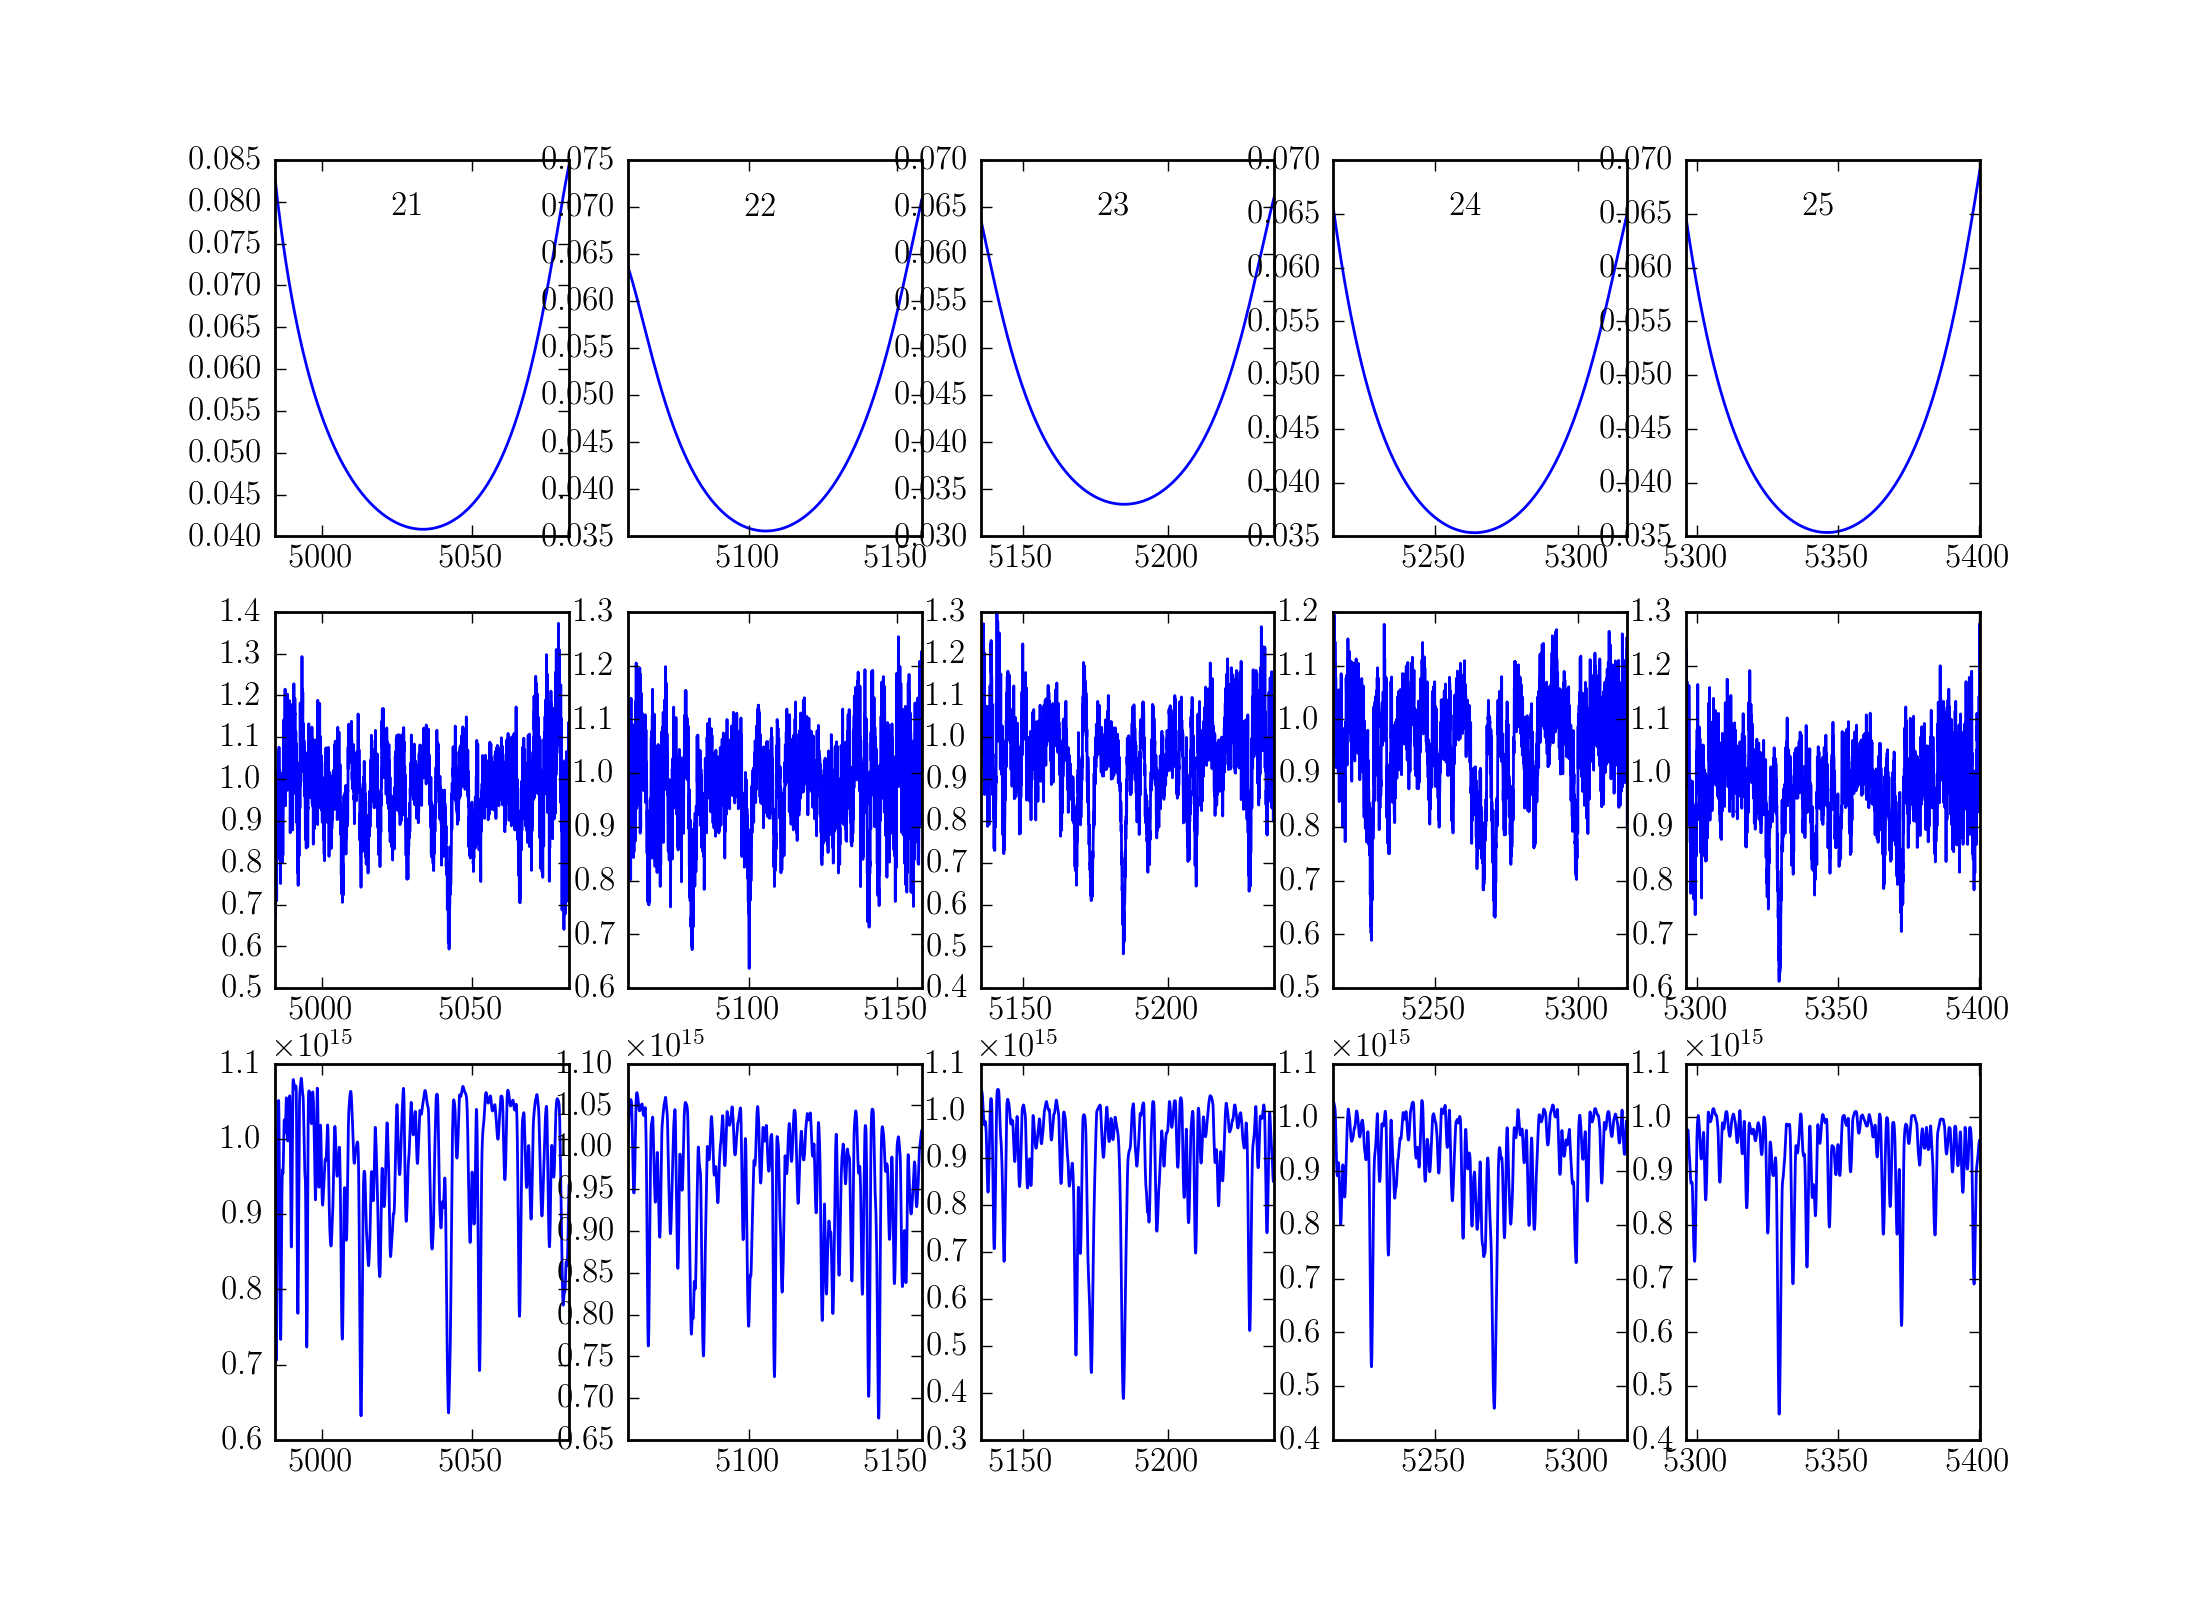
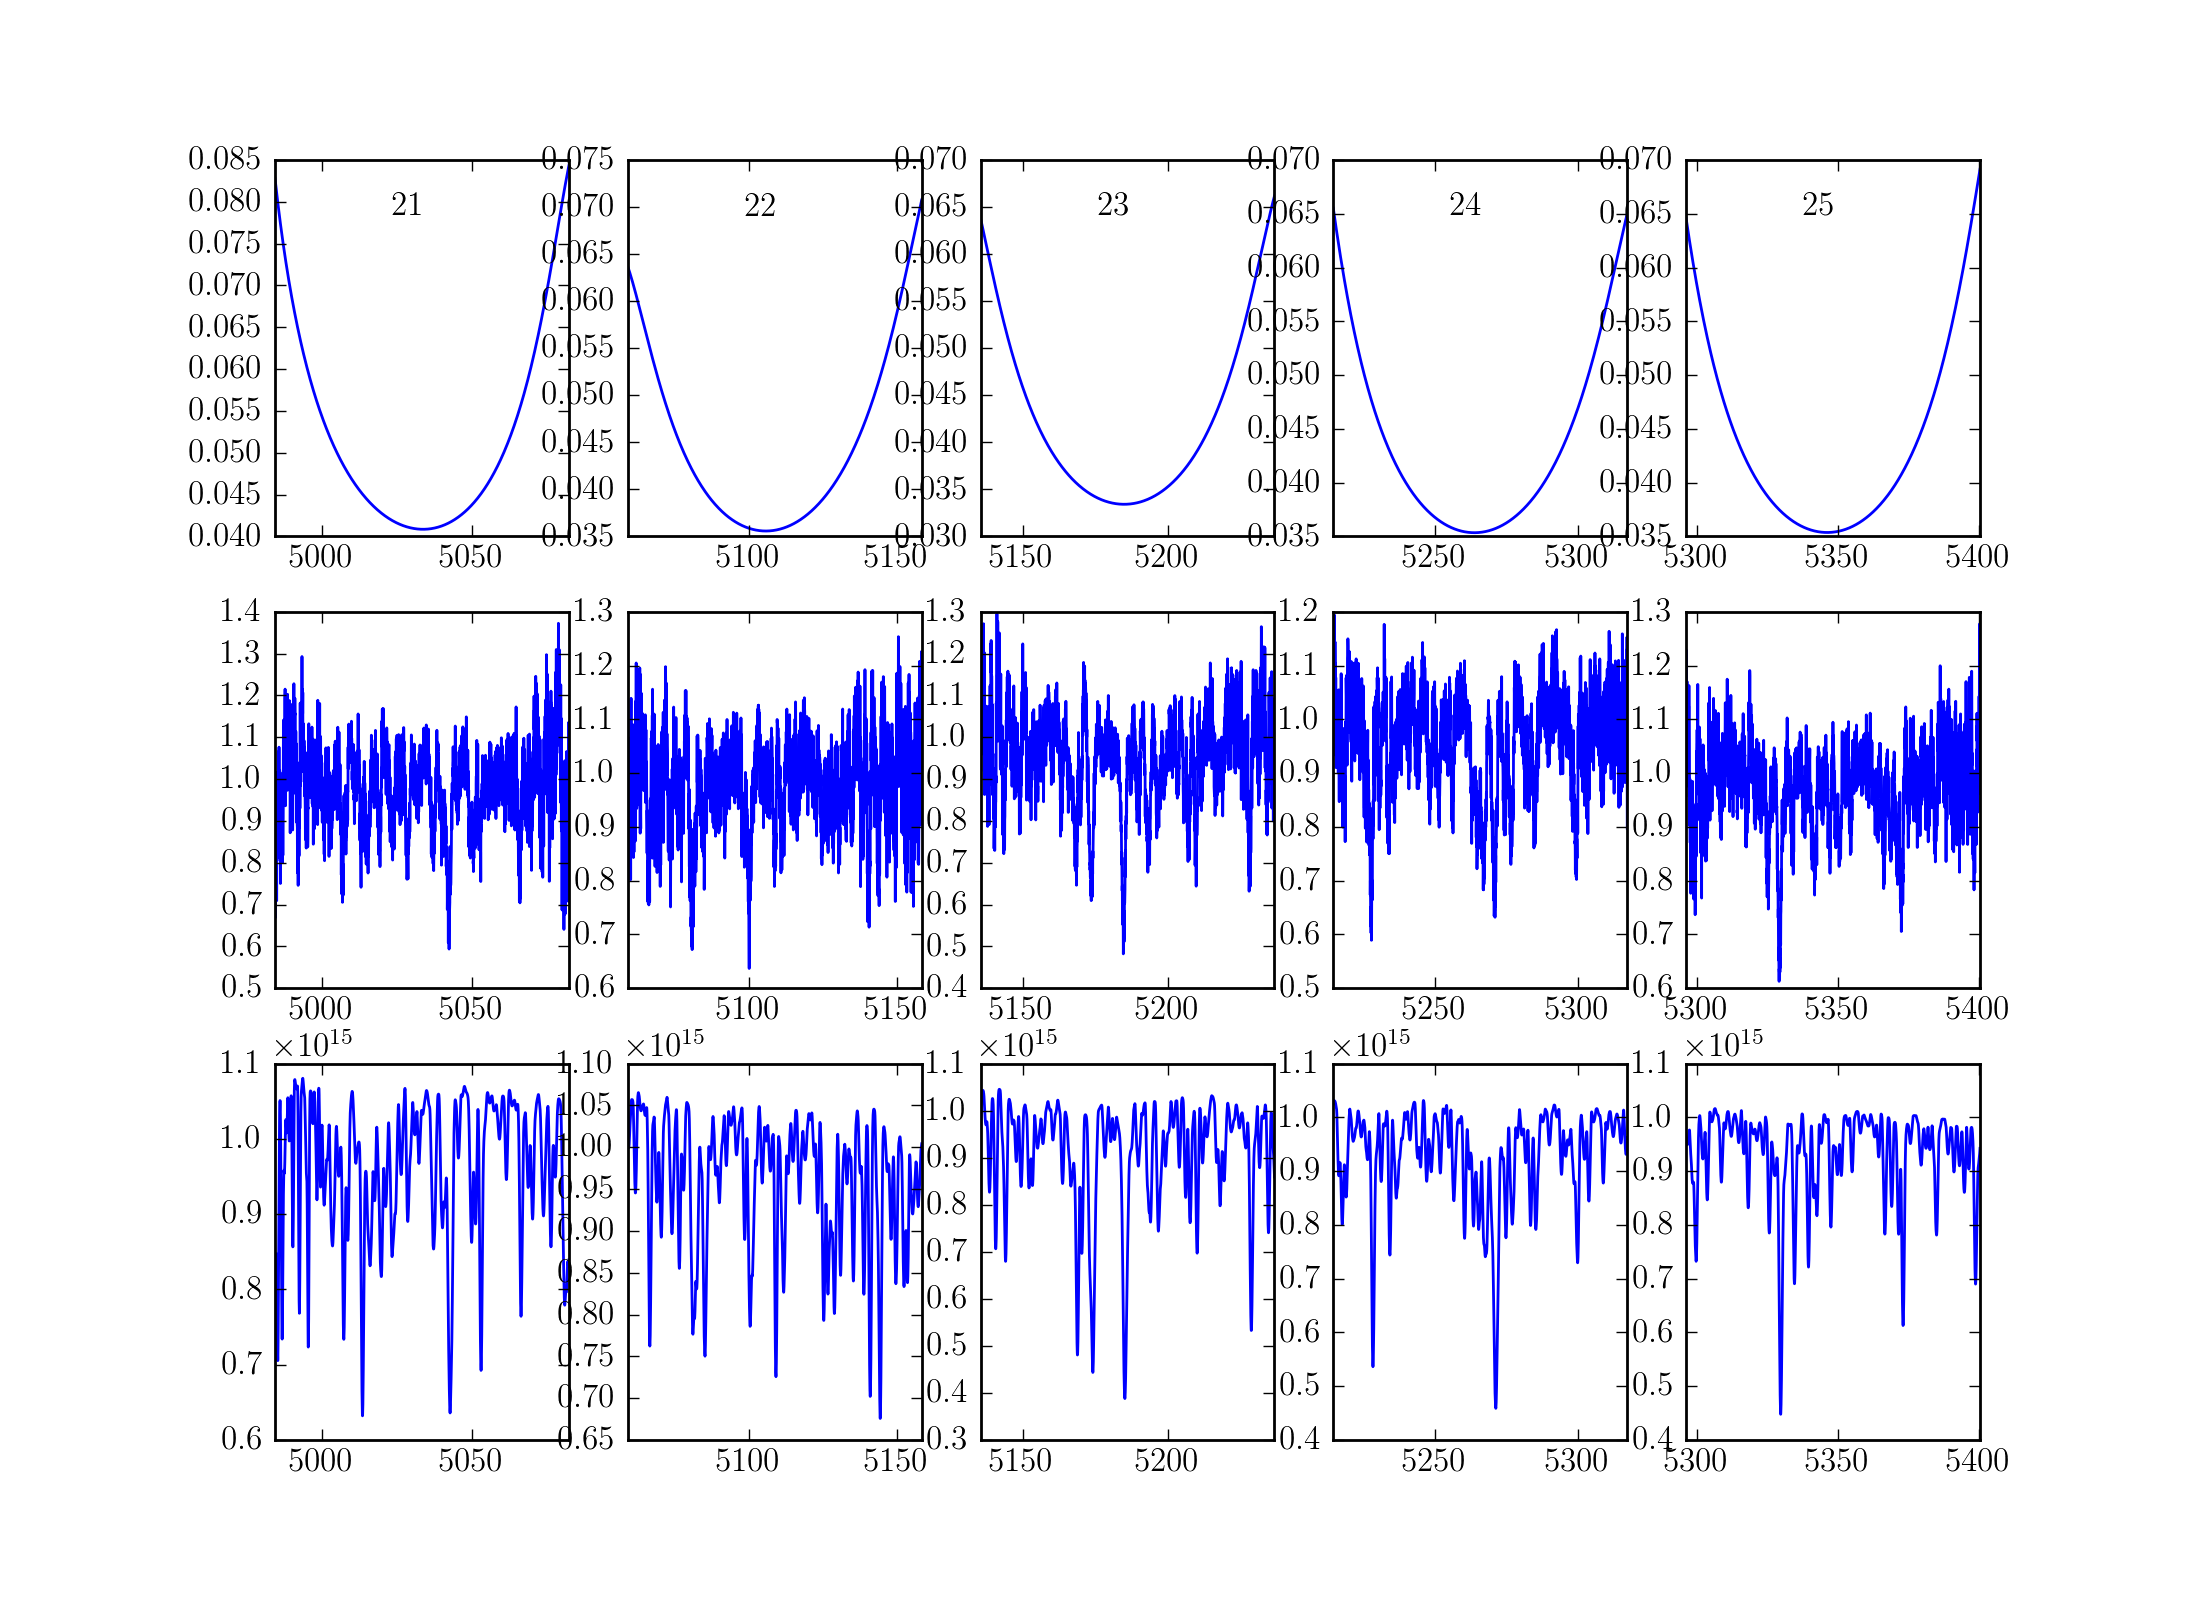
Masking, global chi^2 working

Changed region(s): [[0.1236, 0.6562, 0.8964, 0.875]]

diff --git a/model.py b/model.py
@@ -4,7 +4,7 @@ from echelle_io import rechelletxt,load_masks
 from scipy.interpolate import interp1d
 from scipy.integrate import trapz
 from scipy.ndimage.filters import convolve
-from scipy.optimize import leastsq
+from scipy.optimize import leastsq,fmin
 import asciitable
 
 c_ang = 2.99792458e18 #A s^-1
@@ -16,8 +16,8 @@ Mg = np.array([5168.7605, 5174.1251, 5185.0479])
 efile_n = rechelletxt("GWOri_cn") #has structure len = 51, for each order: [wl,fl]
 sigmas = np.load("sigmas.npy") #has shape (51, 2299), a sigma array for each order
 
-#Load masking region
-masks = load_masks()
+masks = np.load("masks_array.npy")
+
 
 #Load 3700 to 10000 ang wavelength vector
 w_full = np.load("wave_trim.npy")
@@ -30,6 +30,23 @@ def load_flux(temp,logg):
     f = np.load(fname)
     print(f.dtype)
     return f
+
+def make_bool_masks():
+    '''Takes the masks loaded from echelle_io and turns these into boolean arrays that can be applied when doing chi^2 comparisons or plots'''
+    masks = load_masks() #Load masking region from text file
+    masks_array = np.ones((51, 2299),dtype=np.bool)
+    for order in range(51):
+        order_masks = masks[order]
+        wl,fl = efile_n[order]
+        len_wl = len(wl)
+        if len(order_masks) >= 1:
+            for mask in order_masks:
+                start,end = mask
+                ind = (wl > start) & (wl < end)
+                masks_array[order] *= -ind #multiplication knocks out Falses
+
+    np.save("masks_array.npy", masks_array)
+    print("Created mask array")
 
 
 ##################################################
@@ -194,6 +211,8 @@ def downsample4(w_m,f_m,w_TRES):
                 break
     return out_flux
 
+ones = np.ones((10,))
+
 def downsample5(w_m,f_m,w_TRES):
     out_flux = np.zeros_like(w_TRES)
     len_mod = len(w_m)
@@ -222,7 +241,7 @@ def downsample5(w_m,f_m,w_TRES):
 
         if Pedges[i] > edges[edges_i]:
             right_weight = (edges[edges_i] - Pedges[i - 1])/(Pedges[i] - Pedges[i - 1])
-            weights = np.ones((i - i_start,))
+            weights = ones[:(i - i_start)].copy()
             weights[0] = left_weight
             weights[-1] = right_weight
 
@@ -256,14 +275,14 @@ def plot_check():
     plt.plot(edges[-11:],ys,"o")
     plt.show()
 
-def model(temp, vz=-30, vsini=40., logg=4.5):
+def model(temp, vz=-30, vsini=40., logg=4.5,orders=range(norder)):
     '''Given parameters, return the model, exactly sliced to match the format of the echelle spectra in `efile`. `temp` is effective temperature of photosphere. vsini in km/s. vz is radial velocity, negative values imply blueshift.'''
     #Loads the ENTIRE spectrum, not limited to a specific order
     f_full = load_flux(temp,logg)
 
     model_flux = []
     #Cycle through all the orders in the echelle spectrum
-    for i in range(norder):
+    for i in orders:
         print("Processing order %s" % (i+1,))
         wl,fl = efile_n[i]
 
@@ -295,9 +314,37 @@ def model(temp, vz=-30, vsini=40., logg=4.5):
     #Only returns the fluxes, because the wl is actually the TRES wavelength vector
     return model_flux
 
-def find_pref(flux):
-    func = lambda x : chi(x*flux)
-    return leastsq(func, 1e-15)[0][0]
+def find_line(wl,f,fl,sigma):
+    '''As always, f is the model flux and fl is the data flux'''
+    func = lambda p : chi(f/(p[0] + p[1]*wl),fl,sigma)
+    mf = np.median(f)
+    print(mf)
+    p0  = np.array([1.3e15,-9e10])
+    ans = leastsq(func, p0)[0]
+    print(ans)
+    return ans
+
+def global_chi2(model_flux):
+    '''Given a model flux, do a global chi2 comparison to the TRES data. This means divide each order by a line to fit first.'''
+    line_coeff = np.zeros((51,2))
+    chi2_list = np.zeros((51,))
+    for i in range(len(model_flux)):
+        print("Order: ",i + 1)
+        f = model_flux[i]
+        wl,fl = efile_n[i]
+        sigma = sigmas[i]
+        #mask all these values
+        z = masks[i]
+        wl,f,fl,sigma = wl[z],f[z],fl[z],sigma[z]
+        p = find_line(wl,f,fl,sigma)
+        line_coeff[i] = p
+        chi2_list[i] = chi2(f/(p[0] + p[1]*wl),fl,sigma)
+        print(chi2_list[i])
+        print()
+    np.save("line_coeff.npy",line_coeff)
+    print("Global chi^2", np.sum(chi2_list))
+
+
 
 @np.vectorize
 def calc_chi2(temp,logg):
@@ -305,17 +352,14 @@ def calc_chi2(temp,logg):
     pref = find_pref(raw_flux)
     return chi2(pref * raw_flux)
 
-    
-def model2(scale):
-    return scale*gmod 
-
-def chi(flux):
+def chi(f,fl,sigma):
+    '''As always, f is the model flux and fl is the data flux'''
     #f = model(*p)
-    val = np.sum((fl - flux)/sigma)
+    val = (fl - f)/sigma
     return val
 
-def chi2(flux):
-    val = np.sum((fl - flux)**2/sigma**2)
+def chi2(f,fl,sigma):
+    val = np.sum((fl - f)**2/sigma**2)
     return val
 
 def r(p_cur, p_old):
@@ -356,7 +400,8 @@ def run_chain():
     asciitable.write(sequences,"run_0.dat",names=["j","ratio","accept","scale","pedestal"])
 
 def main():
-    mod = model(5900)
+    #make_bool_masks()
+    #mod = model(5900)
     #test_downsample()
     #compare_sample()
     #run_chain()

diff --git a/plotting.py b/plotting.py
@@ -288,18 +288,67 @@ def plot_comic_strip():
             ax[0,j].plot(w,sigma)
             ax[0,j].annotate("%s" % (order +1), (0.4,0.85), xycoords="axes fraction")
             ax[1,j].plot(w,f_TRES,"b")
-            order_masks = m.masks[order]
-            if len(order_masks) >= 1:
-                for mask in order_masks:
-                    start,end = mask
-                    ind = (w > start) & (w < end)
-                    ax[1,j].plot(w[ind],f_TRES[ind],"r")
+            omask = m.masks[order]
+            ax[1,j].plot(w[-omask],f_TRES[-omask],"r")
+#            if len(order_masks) >= 1:
+#                for mask in order_masks:
+#                    start,end = mask
+#                    ind = (w > start) & (w < end)
+#                    ax[1,j].plot(w[ind],f_TRES[ind],"r")
             ax[2,j].plot(w,f)
             for k in ax[:,j]:
                 k.set_xlim(w[0],w[-1])
                 k.xaxis.set_major_formatter(FSF("%.0f"))
                 k.locator_params(axis='x',nbins=5)
-        fig.savefig("plots/comic_strips_4/set%s.png" % (i,))
+        fig.savefig("plots/comic_strips/set%s.png" % (i,))
+
+def plot_tilt():
+    wl,fl = np.loadtxt("GWOri_cn/43.txt",unpack=True)
+    wl = m.shift_vz(wl,30.2)
+    f = m.model(5900,3.5,orders=[42])[0]
+    z = m.masks[42]
+    wl,f,fl,sigma = wl[z],f[z],fl[z],m.sigmas[42][z]
+
+    p = m.find_line(wl,f,fl,sigma)
+
+    fig,ax = plt.subplots(nrows=3,figsize=(11,8))
+    ax[0].plot(wl,fl)
+    ax[1].plot(wl,f)
+    #ax[1].plot(wl,p[0] + p[1]*wl)
+    ax[1].plot(wl,1.3e15 + -9e10 * wl, 'r')
+    ax[2].plot(wl,fl,"b")
+    ax[2].plot(wl,f/(p[0] + p[1]*wl),"r")
+    plt.show()
+
+def test_global_chi2():
+    f_mod = m.model(6500,3.5)
+    m.global_chi2(f_mod)
+    line_coeff = np.load("line_coeff.npy")
+    for i in range(10):
+        fig,ax = plt.subplots(nrows=3,ncols=5,figsize=(11,8))
+        for j in range(5):
+            order = i*5 + j
+            w,f_TRES = m.efile_n[order]
+            f = f_mod[order]
+            sigma = m.sigmas[order]
+            ax[0,j].annotate("%s" % (order +1), (0.4,0.85), xycoords="axes fraction")
+            ax[0,j].plot(w,f_TRES,"b")
+            omask = m.masks[order]
+            ax[0,j].plot(w[-omask],f_TRES[-omask],"r")
+
+            ax[1,j].plot(w,f)
+            p = line_coeff[order]
+            ax[1,j].plot(w,p[0] + p[1] * w)
+
+            ax[2,j].plot(w,f_TRES,"b")
+            ax[2,j].plot(w[-omask],f_TRES[-omask],"g")
+            ax[2,j].plot(w,f/(p[0] + p[1] * w),"r")
+            for k in ax[:,j]:
+                k.set_xlim(w[0],w[-1])
+                k.xaxis.set_major_formatter(FSF("%.0f"))
+                k.locator_params(axis='x',nbins=5)
+        fig.savefig("plots/comic_strips_tilt/set%s.png" % (i,))
+
 
 
 
@@ -315,8 +364,10 @@ def main():
     #plot_sigmas()
     #plot_full_model()
     #plot_comic_strip()
-    test_bin()
+    #test_bin()
     #test_downsample()
+    #plot_tilt()
+    test_global_chi2()
     pass
 
 if __name__=="__main__":

diff --git a/test_profile.py b/test_profile.py
@@ -8,8 +8,8 @@ cProfile.run("model.main()","prof_mod5")
 
 def display_stats(pfile):
     p = pstats.Stats(pfile)
-    p.sort_stats('cumulative').print_stats(.1)
+    p.sort_stats('cumulative').print_stats(.9)
     #p.sort_stats('name').print_stats()
-    p.sort_stats('time').print_stats(.1)
+    p.sort_stats('time').print_stats(.9)
 
 display_stats('prof_mod5')

diff --git a/echelle_io.py b/echelle_io.py
@@ -54,6 +54,7 @@ def create_sigma_file():
 #sigmas = create_sigma_file()
 
 def load_masks():
+    '''Loads all of the masking regions. Returns a list that is accesed by start, end = masking_region[order][region]'''
     data = asciitable.read("masking_regions.dat")
     masking_region = []
     for i in range(1,52):
